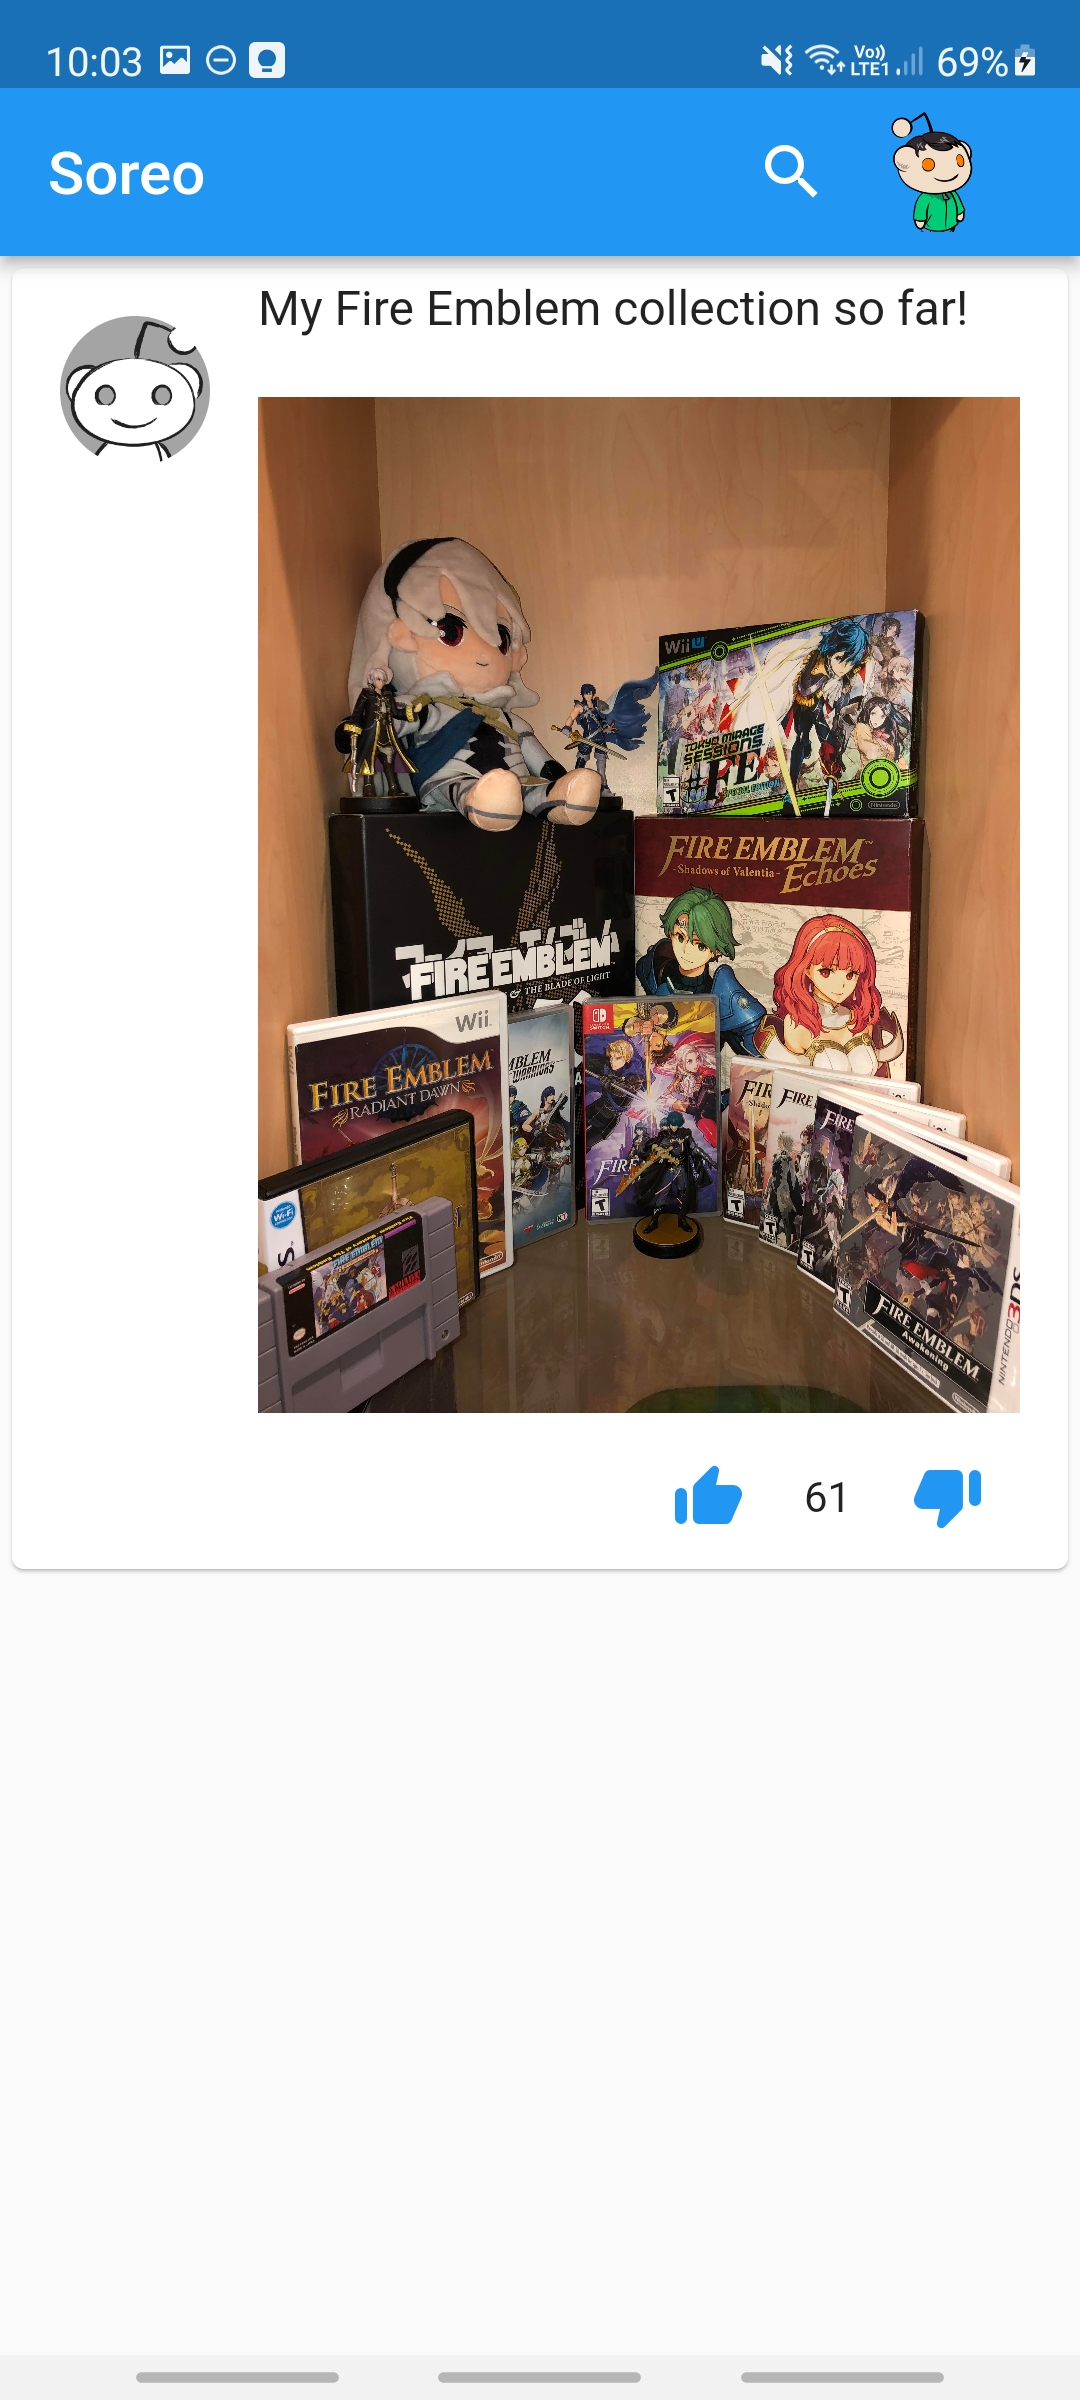
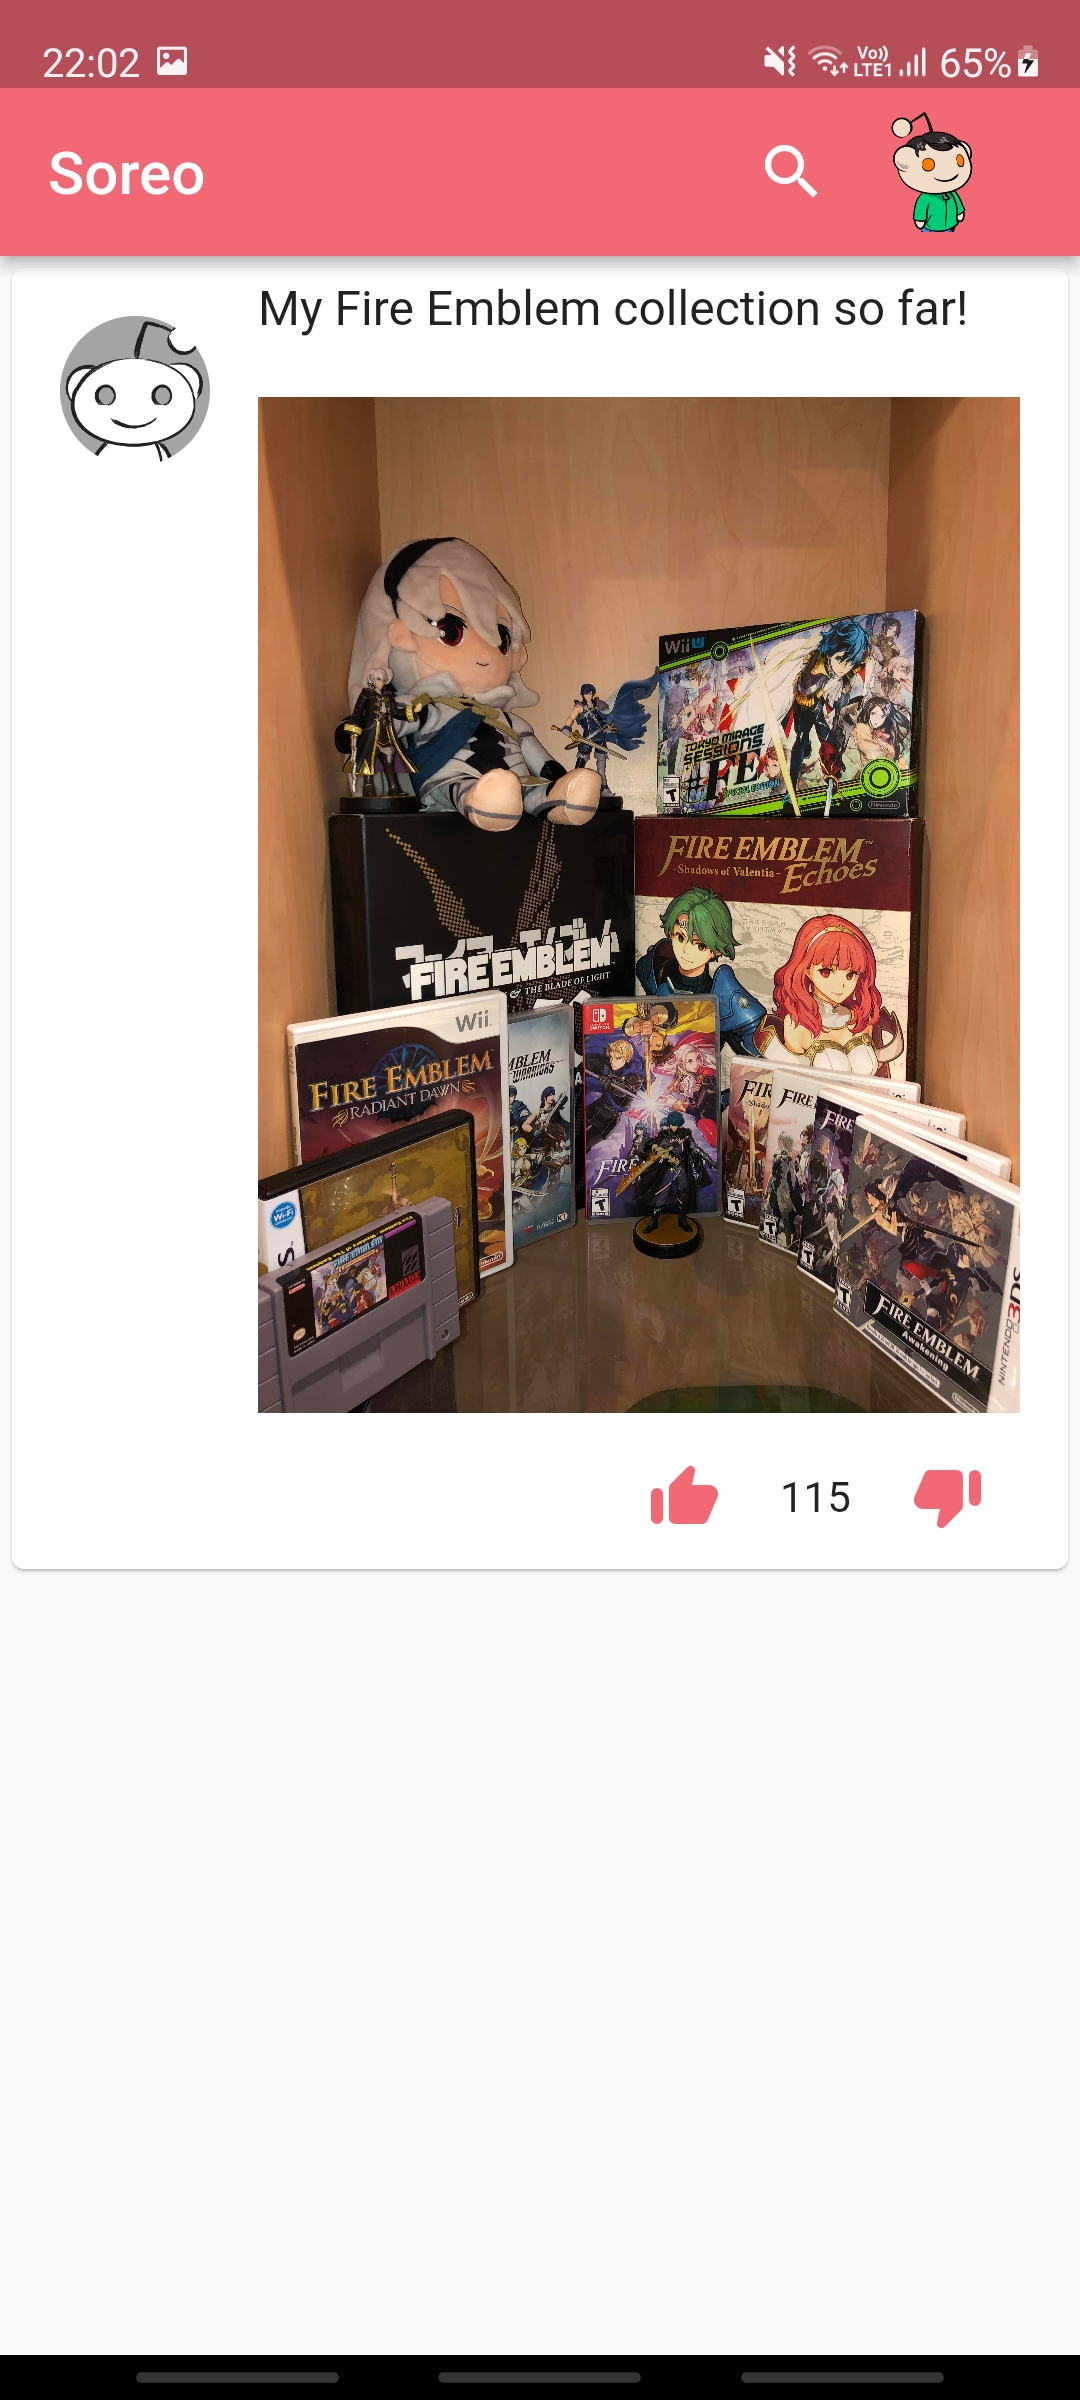
adding updated screenshots

diff --git a/README.md b/README.md
@@ -11,14 +11,14 @@ Soreo is a modern Reddit client, with an minimalist UI
 
 Post list                                             |  Profile view
 :----------------------------------------------------:|:-------------------------------------------------------:
-![App Screenshot](assets/ScreenShots/posts_list.png)  |  ![App Screenshot](assets/ScreenShots/profile_view.png)
+![App Screenshot](assets/ScreenShots/post_list.jpg)  |  ![App Screenshot](assets/ScreenShots/profile_view.jpg)
 
 Search view                                           |  Subreddit view
 ------------------------------------------------------|---------------------------------------------------------
-![App Screenshot](assets/ScreenShots/search_view.png) |  ![App Screenshot](assets/ScreenShots/subreddit_view.png)
+![App Screenshot](assets/ScreenShots/search_view.jpg) |  ![App Screenshot](assets/ScreenShots/subreddit_view.jpg)
 Post view                                             |  
 :----------------------------------------------------:|:-------------------------------------------------------:
-![App Screenshot](assets/ScreenShots/post_view.png)   |  
+![App Screenshot](assets/ScreenShots/post_view.jpg)   |  
 
 ## Documentation
 
